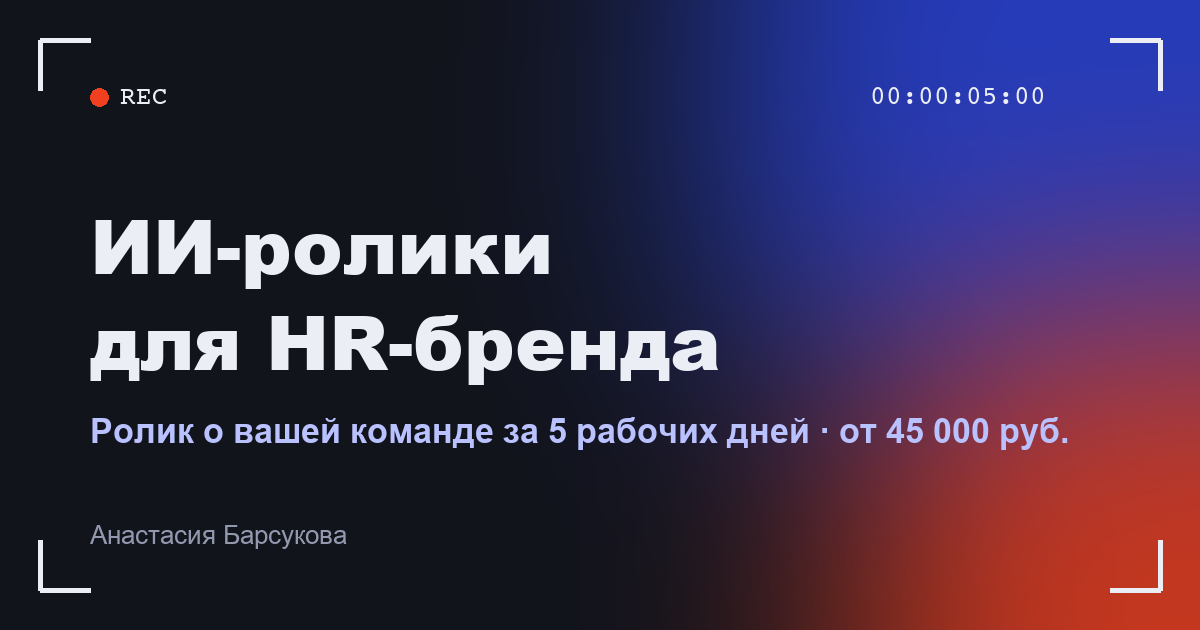
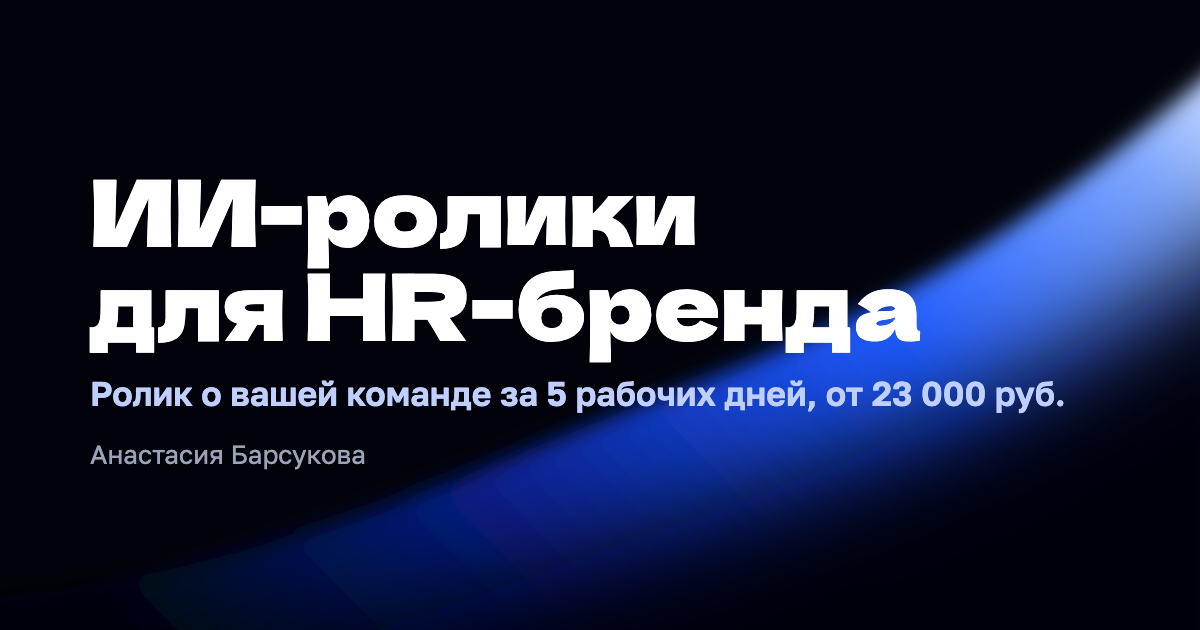
Update prices and pricing cards, start videos when visible
New prices 23 000 / 45 000 / 107 000 / 147 000 across copy, schema and share
image. Cards drop the ruble sign, revision rounds, voice and licence lines;
extras drop voice-over and revision rounds. Videos preload ahead and start
once 35% visible.

diff --git a/index.html b/index.html
@@ -3,15 +3,15 @@
 <head>
 <meta charset="utf-8">
 <meta name="viewport" content="width=device-width, initial-scale=1, viewport-fit=cover">
-<title>ИИ-ролики для HR и бренда работодателя от 24 000 ₽ | Анастасия Барсукова</title>
-<meta name="description" content="Видео о компании, вакансиях, онбординге и ценностях с помощью нейросетей. Ролик под ключ за 5 рабочих дней, от 24 000 ₽, фиксированная смета и 2 круга правок.">
+<title>ИИ-ролики для HR и бренда работодателя от 23 000 ₽ | Анастасия Барсукова</title>
+<meta name="description" content="Видео о компании, вакансиях, онбординге и ценностях с помощью нейросетей. Ролик под ключ за 5 рабочих дней, от 23 000 ₽, фиксированная смета и 2 круга правок.">
 <link rel="canonical" href="https://ai-hr-video.ru/">
 <meta name="robots" content="index, follow">
 <meta property="og:type" content="website">
 <meta property="og:locale" content="ru_RU">
 <meta property="og:url" content="https://ai-hr-video.ru/">
 <meta property="og:title" content="ИИ-ролики для HR и бренда работодателя">
-<meta property="og:description" content="Ролик о вашей команде за 5 рабочих дней, от 24 000 ₽.">
+<meta property="og:description" content="Ролик о вашей команде за 5 рабочих дней, от 23 000 ₽.">
 <meta property="og:image" content="https://ai-hr-video.ru/og.png">
 <meta property="og:image:width" content="1200">
 <meta property="og:image:height" content="630">
@@ -40,7 +40,7 @@
    {
     "@type": "Offer",
     "name": "Повод, ролик до 30 секунд",
-    "price": "24000",
+    "price": "23000",
     "priceCurrency": "RUB"
    },
    {
@@ -52,13 +52,13 @@
    {
     "@type": "Offer",
     "name": "Серия, 3 ролика до 60 секунд",
-    "price": "110000",
+    "price": "107000",
     "priceCurrency": "RUB"
    },
    {
     "@type": "Offer",
     "name": "Кампания, 6 роликов и ИИ-персонаж",
-    "price": "150000",
+    "price": "147000",
     "priceCurrency": "RUB"
    }
   ]
@@ -80,7 +80,7 @@
     "name": "Сколько стоит ИИ-ролик?",
     "acceptedAnswer": {
      "@type": "Answer",
-     "text": "Короткий ролик до 30 секунд стоит 24 000 ₽, ролик 60–90 секунд 45 000 ₽, серия из трёх роликов 110 000 ₽, кампания от 150 000 ₽. Цена фиксируется в смете до начала работы."
+     "text": "Короткий ролик до 30 секунд стоит 23 000 ₽, ролик 60–90 секунд 45 000 ₽, серия из трёх роликов 107 000 ₽, кампания от 147 000 ₽. Цена фиксируется в смете до начала работы."
     }
    },
    {
@@ -251,10 +251,10 @@ nav .btn{padding:9px 16px;font-size:14px}
 .pack.hit{background:var(--accent);color:var(--on-accent);border-color:var(--accent)}
 .pack.hit .tc,.pack.hit .for{color:color-mix(in srgb,var(--on-accent) 75%,transparent)}
 .pack .name{font-family:var(--display);font-size:24px;line-height:1.1}
-.price{font-family:var(--display);font-size:30px;line-height:1;font-variant-numeric:tabular-nums}
+.price{font-family:var(--display);font-size:clamp(30px,2.7vw,38px);line-height:1;font-variant-numeric:tabular-nums}
 .price small{display:block;font-family:var(--body);font-size:13.5px;margin-top:6px;opacity:.75}
 .pack .gist{font-size:16px;line-height:1.3;font-weight:600}
-.pack ul{margin:0;padding-left:18px;display:grid;gap:5px;font-size:14.5px}
+.pack ul{margin:0;padding-left:18px;display:grid;gap:5px;align-content:start;font-size:14.5px}
 .pack .for{font-size:13.5px;color:var(--muted);border-top:1px solid color-mix(in srgb,currentColor 20%,transparent);padding-top:12px}
 .extras{margin-top:28px;display:flex;flex-wrap:wrap;gap:10px}
 .extras span{font-size:14px;padding:8px 14px;border-radius:999px;border:1px solid var(--line);background:var(--bg)}
@@ -393,6 +393,7 @@ section,header{scroll-margin-top:72px}
 }
 @media (max-width:560px){
   .packs{grid-template-columns:1fr}
+  .price{font-size:38px}
   .about-stats{grid-template-columns:1fr}
   .cards div{flex-wrap:wrap}
   nav .btn{display:none}
@@ -423,7 +424,7 @@ section,header{scroll-margin-top:72px}
         <a class="btn" href="#packs">Выбрать пакет</a>
         <a class="btn ghost" href="#examples">Смотреть примеры</a>
       </div>
-      <div class="facts"><span>от <b>24 000 ₽</b></span><span><b>2 круга</b> правок в цене</span><span><b>фиксированная</b> смета</span></div>
+      <div class="facts"><span>от <b>23 000 ₽</b></span><span><b>2 круга</b> правок на ролик</span><span><b>фиксированная</b> смета</span></div>
     </div>
     <div class="viewfinder" id="vf" aria-label="Анимированный видоискатель с примерами тем роликов">
       <div class="vf-scene on"><div  class="vf-bg" style="background:radial-gradient(45% 40% at 30% 30%,#1F5BFF,transparent),radial-gradient(40% 40% at 78% 78%,#0A2AA8,transparent)"></div><div class="display">Добро пожаловать в команду<small>СЦЕНА 01 | ОНБОРДИНГ</small></div></div>
@@ -531,7 +532,7 @@ section,header{scroll-margin-top:72px}
   <div class="in">
     <div class="sec-head reveal"><span class="tc">Почему ИИ-видео</span><h2>Сотрудники работают, ролик снимается</h2></div>
     <div class="why">
-      <div class="reveal"><span class="big">×5</span><h3>Дешевле агентства</h3><p>Ролик под ключ от 24 000 ₽, а не от 150 000 ₽ и выше.</p></div>
+      <div class="reveal"><span class="big">×5</span><h3>Дешевле агентства</h3><p>Ролик под ключ от 23 000 ₽, а не от 150 000 ₽ и выше.</p></div>
       <div class="reveal"><span class="big">5 дн.</span><h3>От брифа до ролика</h3><p>Успеваете к празднику, событию или запуску вакансии.</p></div>
       <div class="reveal"><span class="big">0 ч</span><h3>Сотрудников на съёмке</h3><p>Никого не нужно снимать с работы, переодевать и гримировать.</p></div>
     </div>
@@ -559,31 +560,31 @@ section,header{scroll-margin-top:72px}
       <article class="pack reveal">
         <span class="tc">до 30 с | 5 дней</span>
         <div class="name">Повод</div>
-        <div class="price">24 000 ₽</div>
+        <div class="price">23 000</div>
         <div class="gist">Одна мысль: быстро сообщить о важном</div>
-        <ul><li>Сценарий под задачу</li><li>Генерация, монтаж, музыка с лицензией</li><li>Субтитры, один формат</li><li>2 круга правок</li></ul>
+        <ul><li>Сценарий и ключевые кадры на согласование</li><li>Генерация, монтаж, музыка</li><li>Субтитры, один формат</li></ul>
         <div class="for">Поздравления, анонсы, ролик к вакансии</div>
       </article>
       <article class="pack hit reveal">
         <span class="tc">60–90 с | 8 дней | хит</span>
         <div class="name">История</div>
-        <div class="price">45 000 ₽</div>
+        <div class="price">45 000</div>
         <div class="gist">Герой и сюжет: зритель запомнит и поверит</div>
-        <ul><li>Сценарий и ключевые кадры на согласование</li><li>ИИ-голос или диктор</li><li>16:9 + вертикальная нарезка 15 с</li><li>2 круга правок</li></ul>
+        <ul><li>Сценарий и ключевые кадры на согласование</li><li>Генерация, монтаж, музыка</li><li>16:9 + вертикальная нарезка 15&nbsp;с</li></ul>
         <div class="for">Ценности, онбординг, имиджевый ролик</div>
       </article>
       <article class="pack reveal">
         <span class="tc">3 × до 60 с | 15 дней</span>
         <div class="name">Серия</div>
-        <div class="price">110 000 ₽<small>около 36 700 ₽ за ролик, выгода 18%</small></div>
+        <div class="price">107 000<small>около 35 700 ₽ за ролик, выгода 20%</small></div>
         <div class="gist">Одна тема в нескольких роликах: вас видят регулярно</div>
-        <ul><li>Общая концепция и единый стиль</li><li>ИИ-голос или диктор</li><li>3 вертикальные нарезки</li><li>2 круга правок на ролик</li></ul>
+        <ul><li>Общая концепция и единый стиль</li><li>Генерация, монтаж, музыка</li><li>3 вертикальные нарезки</li></ul>
         <div class="for">Рубрика о профессиях, серия о ценностях</div>
       </article>
       <article class="pack reveal">
         <span class="tc">6 роликов | от 20 дней</span>
         <div class="name">Кампания</div>
-        <div class="price">150 000 ₽<small>стартовая цена, точная по брифу</small></div>
+        <div class="price">147 000<small>стартовая цена, точная по брифу</small></div>
         <div class="gist">Большой запуск: главный фильм и ролики вокруг него</div>
         <ul><li>Главный ролик 60–90 с</li><li>5 роликов до 30 с</li><li>ИИ-персонаж компании</li><li>Вертикальные нарезки</li></ul>
         <div class="for">Запуск EVP, массовый найм, юбилей компании</div>
@@ -591,13 +592,11 @@ section,header{scroll-margin-top:72px}
     </div>
     <div class="sub reveal">
       <div><span class="tc">Подписка | от 3 месяцев</span><div class="name">Контент на месяц</div><p>4 ролика до 30 с: контент-план вместе с вами, ролик каждую неделю, единый стиль и приоритет в очереди.</p></div>
-      <div class="price">75 000 ₽<small>в месяц</small></div>
+      <div class="price">75 000<small>в месяц</small></div>
     </div>
     <div class="extras reveal">
       <span>ИИ-персонаж<b>8 000 ₽</b></span>
       <span>Доп. формат<b>4 000 ₽</b></span>
-      <span>Диктор в «Поводе»<b>от 5 000 ₽</b></span>
-      <span>Доп. круг правок<b>6 000 ₽</b></span>
       <span>Английская версия<b>8 000 ₽</b></span>
       <span>Срочно, вдвое быстрее<b>+30%</b></span>
     </div>
@@ -654,7 +653,7 @@ section,header{scroll-margin-top:72px}
     <div class="sec-head reveal"><span class="tc">Важно знать</span><h2>Частые вопросы об ИИ-видео для HR</h2></div>
     <div class="faq">
       <details><summary>Что такое ИИ-ролик для HR?</summary><p>Это видео о компании, команде или вакансии, которое создаётся с помощью нейросетей вместо съёмки. Сценарий, стиль и монтаж делает человек, а кадры генерируются. Получается быстрее и в несколько раз дешевле классического продакшна.</p></details>
-      <details><summary>Сколько стоит ИИ-ролик?</summary><p>Короткий ролик до 30 секунд стоит 24 000 ₽, ролик 60–90 секунд 45 000 ₽, серия из трёх роликов 110 000 ₽, кампания от 150 000 ₽. Цена фиксируется в смете до начала работы.</p></details>
+      <details><summary>Сколько стоит ИИ-ролик?</summary><p>Короткий ролик до 30 секунд стоит 23 000 ₽, ролик 60–90 секунд 45 000 ₽, серия из трёх роликов 107 000 ₽, кампания от 147 000 ₽. Цена фиксируется в смете до начала работы.</p></details>
       <details><summary>Сколько времени занимает производство?</summary><p>Короткий ролик готов за 5 рабочих дней, ролик 60–90 секунд за 8 рабочих дней. Есть срочное производство вдвое быстрее.</p></details>
       <details><summary>Можно ли использовать лица наших сотрудников?</summary><p>Да, если сотрудники дали письменное согласие. Без этого используются сгенерированные персонажи в вашем фирменном стиле.</p></details>
       <details><summary>Кому принадлежат права на ролик?</summary><p>Исключительные права на готовый ролик переходят к заказчику после полной оплаты.</p></details>
@@ -732,15 +731,18 @@ section,header{scroll-margin-top:72px}
 
   // Звук у примера: браузеры запускают видео только без звука, включает зритель
   var vids = [].slice.call(document.querySelectorAll('.slot video'));
-  // Видео грузится и играет только на экране, иначе ролики забирают канал у шрифтов
+  // Ролик подгружается заранее, на подходе к экрану, а стартует, когда виден зрителю
   if (!reduce && 'IntersectionObserver' in window) {
+    var pre = new IntersectionObserver(function(es){
+      es.forEach(function(e){ if (e.isIntersecting) { e.target.preload = 'auto'; e.target.load(); pre.unobserve(e.target); } });
+    }, {rootMargin:'900px 0px'});
     var vio = new IntersectionObserver(function(es){
       es.forEach(function(e){
         if (e.isIntersecting) { var p = e.target.play(); if (p && p.catch) p.catch(function(){}); }
         else e.target.pause();
       });
-    }, {rootMargin:'200px 0px'});
-    vids.forEach(function(v){ vio.observe(v); });
+    }, {threshold:.35});
+    vids.forEach(function(v){ pre.observe(v); vio.observe(v); });
   }
   vids.forEach(function(v){
     if (reduce) { v.controls = true; }
